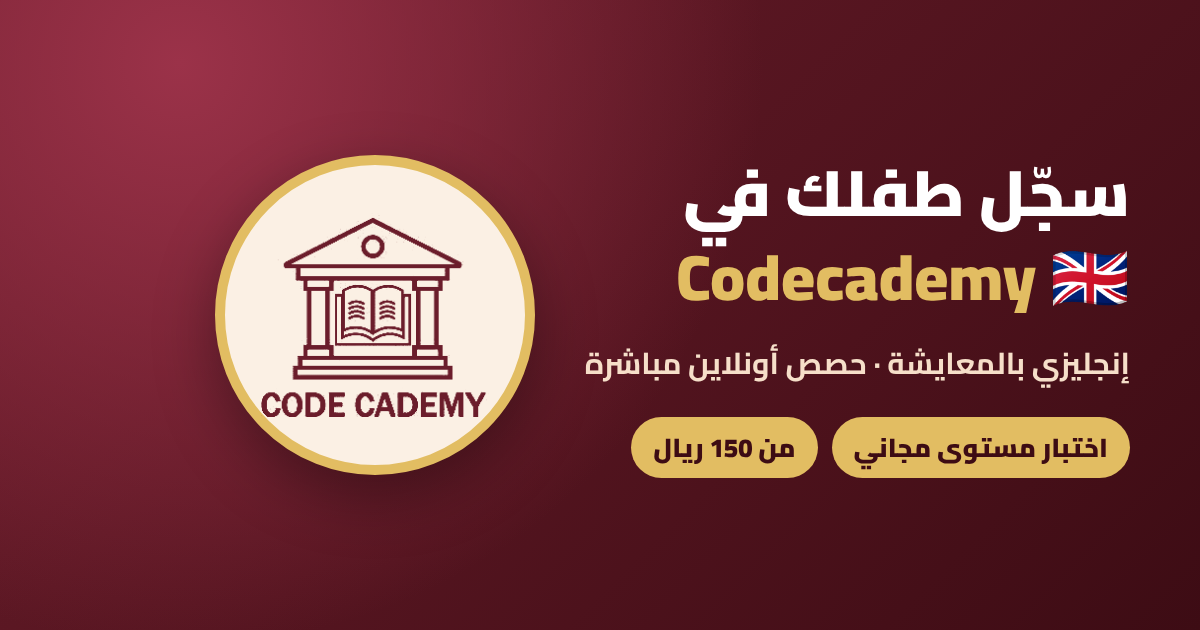
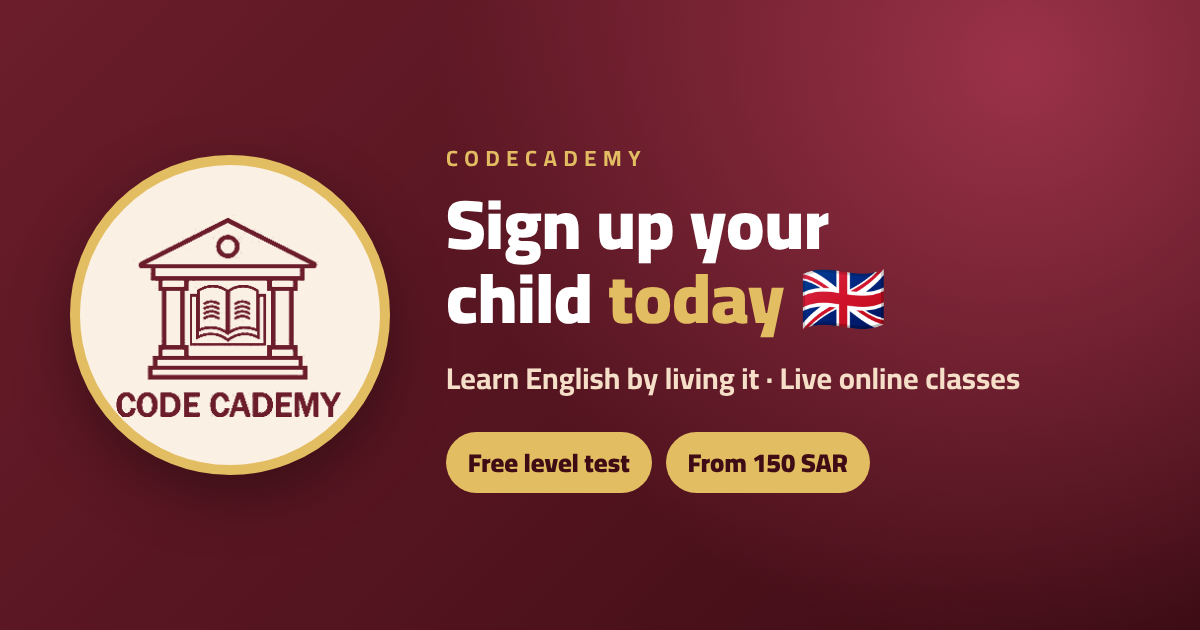
Sign-up page: English sign-up form with blank fields sent on WhatsApp
Claude-Session: https://claude.ai/code/session_017L3fB1cBEQQbZCs43fQFX8

diff --git a/books/join/index.html b/books/join/index.html
@@ -1,70 +1,76 @@
 <!doctype html>
-<html lang="ar" dir="rtl">
+<html lang="en">
 <head>
 <meta charset="utf-8">
 <meta name="viewport" content="width=device-width,initial-scale=1,viewport-fit=cover">
-<title>CODECADEMY · سجّل طفلك</title>
-<meta name="description" content="أجب عن 5 أسئلة سريعة وسيتواصل معك فريق Codecademy لاختيار المستوى والباقة المناسبة لطفلك. اختبار تحديد المستوى مجاني.">
+<title>Sign up · CODECADEMY</title>
+<meta name="description" content="Sign up your child for live online English classes at Codecademy. Free level test. Free interactive apps for every student.">
 <meta property="og:type" content="website">
 <meta property="og:url" content="https://ccdemy.com/books/join/">
-<meta property="og:title" content="ضغطة واحدة تفصل طفلك عن الإنجليزي بثقة 🇬🇧">
-<meta property="og:description" content="أكاديمية Codecademy للأطفال · حصص أونلاين مباشرة · اختبار مستوى مجاني · تطبيقات تفاعلية مجانية">
+<meta property="og:title" content="Sign up your child · Codecademy English 🇬🇧">
+<meta property="og:description" content="Live online English classes for kids · Free level test · Free interactive apps">
 <meta property="og:image" content="https://ccdemy.com/books/join/share.png">
 <meta name="twitter:card" content="summary_large_image">
 <meta name="theme-color" content="#6b1d2b">
 <link rel="icon" href="/assets/img/favicon-32.png">
 <style>
-@font-face{font-family:Cairo;font-weight:600;src:url(../assets/fonts/cairo-arabic-600-normal.woff2)}
-@font-face{font-family:Cairo;font-weight:700;src:url(../assets/fonts/cairo-arabic-700-normal.woff2)}
-@font-face{font-family:Cairo;font-weight:900;src:url(../assets/fonts/cairo-arabic-900-normal.woff2)}@font-face{font-family:Cairo;font-weight:600;src:url(../assets/fonts/cairo-latin-600-normal.woff2);unicode-range:U+0000-024F}@font-face{font-family:Cairo;font-weight:700;src:url(../assets/fonts/cairo-latin-700-normal.woff2);unicode-range:U+0000-024F}@font-face{font-family:Cairo;font-weight:900;src:url(../assets/fonts/cairo-latin-900-normal.woff2);unicode-range:U+0000-024F}
-:root{--m:#6b1d2b;--d:#3d0c14;--g:#e2bd62;--c:#fbf0e4;--ink:#2a1015;--line:#ecd3c3;--ok:#25d366}
+@font-face{font-family:Cairo;font-weight:600;src:url(../assets/fonts/cairo-latin-600-normal.woff2)}
+@font-face{font-family:Cairo;font-weight:700;src:url(../assets/fonts/cairo-latin-700-normal.woff2)}
+@font-face{font-family:Cairo;font-weight:900;src:url(../assets/fonts/cairo-latin-900-normal.woff2)}
+:root{--m:#6b1d2b;--d:#3d0c14;--g:#e2bd62;--ink:#2a1015;--line:#ecd3c3;--ok:#25d366;--muted:#7a6a6e}
 *{box-sizing:border-box;-webkit-tap-highlight-color:transparent}
-html,body{margin:0;background:#f4ece4;color:var(--ink);font-family:Cairo,"Segoe UI",Tahoma,sans-serif}
-.app{max-width:520px;margin:0 auto;min-height:100vh;min-height:100dvh;display:flex;flex-direction:column;background:linear-gradient(#f9f1e9,#f1e6dc)}
-.banner{background:radial-gradient(circle at 80% 0,#9b3249,transparent 55%),linear-gradient(135deg,#6b1d2b,#3d0c14);color:#fff;padding:20px 18px 100px;text-align:center;position:relative;overflow:hidden}
+html,body{margin:0;background:#f4ece4;color:var(--ink);font-family:Cairo,"Segoe UI",system-ui,sans-serif}
+.app{max-width:520px;margin:0 auto;min-height:100vh;min-height:100dvh;background:linear-gradient(#f9f1e9,#f1e6dc)}
+.banner{background:radial-gradient(circle at 85% 0,#9b3249,transparent 55%),linear-gradient(135deg,#6b1d2b,#3d0c14);color:#fff;padding:20px 18px 100px;text-align:center;position:relative;overflow:hidden}
 .banner::after{content:"";position:absolute;inset:auto -10% -40px;height:80px;background:#f9f1e9;border-radius:50% 50% 0 0}
-.banner small{font-weight:700;letter-spacing:.25em;color:var(--g);font-size:11px;direction:ltr;display:block}
-.banner h1{margin:4px 0 2px;font-size:20px;font-weight:900;line-height:1.4}
-.banner p{margin:0;font-size:13px;color:#f6dfc9}
-.badges{display:flex;justify-content:center;gap:8px;margin-top:10px;flex-wrap:wrap}
-.badges span{background:#ffffff1f;border:1px solid #ffffff33;border-radius:99px;padding:3px 10px;font-size:12px;font-weight:700}
-main{flex:1;padding:0 16px 120px;margin-top:-40px;position:relative;z-index:1}
-.card{background:#fff;border-radius:20px;box-shadow:0 6px 24px rgba(61,12,20,.08);padding:18px;margin-bottom:14px}
-.intro{text-align:center;padding-top:52px;position:relative}
-.logo{position:absolute;top:-44px;left:50%;transform:translateX(-50%);width:92px;height:92px;border-radius:50%;background:#fbf0e4;border:4px solid #fff;box-shadow:0 6px 18px rgba(61,12,20,.18);display:flex;align-items:center;justify-content:center;overflow:hidden}
+.banner small{font-weight:700;letter-spacing:.25em;color:var(--g);font-size:11px;display:block}
+.banner h1{margin:6px 0 2px;font-size:24px;font-weight:900;line-height:1.25}
+.banner p{margin:0;font-size:14px;color:#f6dfc9}
+.badges{display:flex;justify-content:center;gap:8px;margin-top:12px;flex-wrap:wrap}
+.badges span{background:#ffffff1f;border:1px solid #ffffff33;border-radius:99px;padding:3px 11px;font-size:12.5px;font-weight:700}
+main{padding:0 16px 130px;margin-top:-40px;position:relative;z-index:1}
+.card{background:#fff;border-radius:20px;box-shadow:0 6px 24px rgba(61,12,20,.08);padding:20px 18px;margin-bottom:14px}
+.intro{text-align:center;padding-top:54px;position:relative}
+.logo{position:absolute;top:-46px;left:50%;transform:translateX(-50%);width:94px;height:94px;border-radius:50%;background:#fbf0e4;border:4px solid #fff;box-shadow:0 6px 18px rgba(61,12,20,.18);display:flex;align-items:center;justify-content:center;overflow:hidden}
 .logo img{width:78%}
-.intro .org{color:#7a6a6e;font-size:14px;margin:0}
-.intro h2{margin:6px 0;font-size:23px;font-weight:900;line-height:1.45}
-.intro p{margin:6px 0 0;font-size:15px;line-height:1.8}
+.intro .org{color:var(--muted);font-size:14px;margin:0}
+.intro h2{margin:6px 0;font-size:24px;font-weight:900;line-height:1.3}
+.intro p{margin:6px 0 0;font-size:15.5px;line-height:1.7}
 .intro b{color:var(--m)}
-.q h3{margin:0 0 10px;font-size:19px;font-weight:900}
-.q .sub{margin:-6px 0 10px;color:#7a6a6e;font-size:13px}
-.opt{display:flex;align-items:center;justify-content:space-between;gap:10px;width:100%;background:none;border:0;border-bottom:1px solid #f0e4da;padding:14px 2px;font:inherit;font-size:16px;font-weight:700;color:var(--ink);cursor:pointer;text-align:right}
-.opt:last-child{border-bottom:0}
-.opt .r{flex:none;width:26px;height:26px;border-radius:50%;border:2.5px solid #9a8a8e;display:grid;place-items:center}
-.opt.on .r{border-color:var(--m);background:var(--m);box-shadow:inset 0 0 0 4px #fff}
-.opt .em{font-size:20px;margin-left:8px}
-.field{display:flex;flex-direction:column;gap:6px;margin-bottom:14px}
+.form h3{margin:0 0 4px;font-size:20px;font-weight:900;display:flex;align-items:center;gap:8px}
+.form h3 span{background:var(--m);color:#fff;width:28px;height:28px;border-radius:50%;display:inline-grid;place-items:center;font-size:15px}
+.form .sub{margin:0 0 14px;color:var(--muted);font-size:13.5px}
+.field{display:flex;flex-direction:column;gap:6px;margin-bottom:14px;min-width:0}
 .field label{font-weight:700;font-size:15px}
-.field input,.field select{font:inherit;font-size:16px;border:2px solid var(--line);border-radius:14px;padding:12px 14px;background:#fffdfb;color:var(--ink);width:100%}
-.field input:focus,.field select:focus{outline:none;border-color:var(--m)}
-.phone{display:flex;gap:8px;direction:ltr}.phone select{width:118px;flex:none}.phone input{flex:1;direction:ltr;text-align:left}
-.err{color:#c0392b;font-size:13px;min-height:18px;margin:-6px 0 6px}
+.field label i{font-style:normal;color:#c0392b}
+.field label small{font-weight:600;color:var(--muted)}
+.field input,.field select,.field textarea{font:inherit;font-size:16px;border:2px solid var(--line);border-radius:14px;padding:12px 14px;background:#fffdfb;color:var(--ink);width:100%;min-width:0;transition:border-color .2s,box-shadow .2s}
+.field select:invalid{color:#a3959a}
+.field input:focus,.field select:focus,.field textarea:focus{outline:none;border-color:var(--m);box-shadow:0 0 0 4px #6b1d2b1a}
+.field.bad input,.field.bad select,.field.bad .chips{border-color:#c0392b}
+.field .msg{color:#c0392b;font-size:13px;display:none}.field.bad .msg{display:block}
+.field.good input,.field.good select{border-color:#3fae5a}
+.row2{display:grid;grid-template-columns:1fr 1fr;gap:10px}
+.phone{display:flex;gap:8px}.phone select{width:118px;flex:none}.phone input{flex:1}
+.chips{display:flex;flex-wrap:wrap;gap:8px}
+.chip{border:2px solid var(--line);background:#fffdfb;border-radius:99px;padding:8px 14px;font:inherit;font-size:14.5px;font-weight:700;color:var(--ink);cursor:pointer}
+.chip.on{background:var(--m);border-color:var(--m);color:#fff}
 .bottom{position:fixed;left:0;right:0;bottom:0;z-index:20;background:#fffcf9ee;backdrop-filter:blur(8px);border-top:1px solid #efe2d8;padding:10px 16px calc(12px + env(safe-area-inset-bottom,0px))}
-.bottom .in{max-width:488px;margin:0 auto}
-.steps{display:flex;gap:6px;margin-bottom:10px;direction:rtl}.steps i{flex:1;height:6px;border-radius:99px;background:#ddd2ca;transition:background .3s}.steps i.on{background:var(--m)}
-.cta{width:100%;border:0;border-radius:14px;padding:14px;font:inherit;font-size:18px;font-weight:900;color:#fff;background:var(--m);cursor:pointer;display:flex;align-items:center;justify-content:center;gap:8px}
-.cta[disabled]{background:#c9b8b0;cursor:default}
+.bottom .in{max-width:488px;margin:0 auto;display:flex;flex-direction:column;gap:10px}
+.prog{display:flex;align-items:center;gap:10px;font-size:13px;font-weight:700;color:var(--muted)}
+.prog .bar{flex:1;height:8px;border-radius:99px;background:#e6dbd3;overflow:hidden}.prog .bar i{display:block;height:100%;width:0;background:linear-gradient(90deg,var(--m),#a8344c);transition:width .35s}
+.btns{display:flex;gap:10px}
+.cta{flex:1;border:0;border-radius:14px;padding:14px;font:inherit;font-size:17px;font-weight:900;color:#fff;background:var(--m);cursor:pointer;display:flex;align-items:center;justify-content:center;gap:8px}
+.cta.ghost{flex:none;background:#fff;color:var(--m);border:2px solid var(--line);padding:14px 18px}
 .cta.wa{background:var(--ok)}
-.back{background:none;border:0;color:var(--m);font:inherit;font-weight:700;margin:0 0 8px;cursor:pointer;padding:0;font-size:14px}
-.done{text-align:center}
-.done .big{font-size:56px;line-height:1}
-.done h2{margin:6px 0;font-size:22px;font-weight:900;color:var(--m)}
-.done p{margin:6px 0;line-height:1.8}
-.links{display:flex;flex-direction:column;gap:10px;margin-top:14px}
+.cta[hidden]{display:none}
+.done{text-align:center}.done .big{font-size:58px;line-height:1}.done h2{margin:6px 0;font-size:24px;font-weight:900;color:var(--m)}.done p{margin:6px 0;line-height:1.7}
+.sum{background:#fbf5ef;border-radius:14px;padding:12px 14px;text-align:left;font-size:14.5px;line-height:1.8;margin:12px 0}
+.sum b{color:var(--m)}
+.links{display:flex;flex-direction:column;gap:10px;margin-top:12px}
 .links a{display:flex;align-items:center;justify-content:center;gap:8px;border-radius:14px;padding:13px;font-weight:900;text-decoration:none;font-size:16px}
 .links .l1{background:var(--ok);color:#fff}.links .l2{background:var(--m);color:#fff}.links .l3{background:#fff;color:var(--m);border:2px solid var(--m)}
-.foot{text-align:center;color:#9a8a8e;font-size:12px;margin-top:6px}.foot a{color:var(--m)}
+.foot{text-align:center;color:#9a8a8e;font-size:12.5px;margin-top:6px}.foot a{color:var(--m)}
 .fade{animation:fade .3s ease}@keyframes fade{from{opacity:0;transform:translateY(8px)}}
 @media (prefers-reduced-motion:reduce){*{animation:none!important;transition:none!important}}
 </style>
@@ -73,58 +79,84 @@ main{flex:1;padding:0 16px 120px;margin-top:-40px;position:relative;z-index:1}
 <div class="app">
   <header class="banner">
     <small>CODECADEMY · LEARN BY LIVING IT ♥</small>
-    <h1>إنجليزي بالمعايشة لطفلك من البيت</h1>
-    <p>حصص أونلاين مباشرة مع مدرّسين متحدثين بالإنجليزية</p>
-    <div class="badges"><span>✔ اختبار مستوى مجاني</span><span>✔ تطبيقات تفاعلية مجانًا</span><span>✔ 9 مستويات</span></div>
+    <h1>Learn English by living it, from home</h1>
+    <p>Live online classes for kids with English-speaking teachers</p>
+    <div class="badges"><span>✔ Free level test</span><span>✔ Free interactive apps</span><span>✔ 9 levels</span></div>
   </header>
-  <main id="main"></main>
+  <main>
+    <section class="card intro">
+      <div class="logo"><img src="../assets/logo.png" alt="CODECADEMY"></div>
+      <p class="org">CODECADEMY · English Academy for Kids</p>
+      <h2>Sign up your child in 2 minutes 🇬🇧</h2>
+      <p>A fun, interactive way to speak English with confidence.<br>Packages start from <b>150 SAR a month</b>.<br>Fill in the form and we'll contact you on WhatsApp.</p>
+    </section>
+    <form class="card form fade" id="form" novalidate autocomplete="on"></form>
+    <p class="foot"><a href="https://ccdemy.com/" target="_blank" rel="noopener">ccdemy.com</a> · <a href="https://wa.me/message/SMLAW2VMJXCQE1" target="_blank" rel="noopener">Chat with us on WhatsApp</a></p>
+  </main>
 </div>
-<div class="bottom"><div class="in"><div class="steps" id="steps"></div><button class="cta" id="next" disabled>متابعة</button></div></div>
+<div class="bottom" id="bottom"><div class="in">
+  <div class="prog"><span id="pt">Step 1 of 3</span><div class="bar"><i id="pb"></i></div></div>
+  <div class="btns"><button class="cta ghost" id="back" type="button" hidden>← Back</button><button class="cta" id="next" type="button">Next →</button></div>
+</div></div>
 
 <script>
-var WA="966538840330",WA_LINK="https://wa.me/message/SMLAW2VMJXCQE1",SITE="https://ccdemy.com/";
-var Q=[
- {k:"age",t:"عمر الطفل",o:[["👶","من 4 إلى 6 سنوات"],["🧒","من 7 إلى 9 سنوات"],["👦","من 10 إلى 12 سنة"],["🧑","من 13 إلى 15 سنة"]]},
- {k:"goal",t:"ما هدفك من تعلّم طفلك الإنجليزي؟",o:[["🗣","التحدث بطلاقة وثقة"],["🔤","التأسيس: الحروف والصوتيات"],["📖","القراءة والكتابة"],["🏫","تحسين مستواه في المدرسة"],["✈","الاستعداد للسفر أو الاختبارات"]]},
- {k:"level",t:"مستوى الطفل الحالي في الإنجليزي",s:"لا تقلق، نحدد المستوى بدقة باختبار مجاني",o:[["🌱","مبتدئ تمامًا"],["🙂","يعرف الأساسيات"],["⭐","متوسط"],["🚀","متقدم"],["❓","لا أعرف"]]},
- {k:"plan",t:"الباقة المناسبة لك",o:[["📅","حصتان أسبوعيًا (8 حصص شهريًا)"],["🗓","3 حصص أسبوعيًا (12 حصة شهريًا)"],["💬","أحتاج استشارة لاختيار الباقة"]]},
- {k:"time",t:"الوقت المناسب للحصص",o:[["🌅","صباحًا"],["☀","بعد الظهر"],["🌆","مساءً"],["🔁","مرن"]]},
- {k:"info",form:1}
+var WA="966538840330",SITE="https://ccdemy.com/";
+var STEPS=[
+ {t:"Your child",s:"Tell us about the student.",f:[
+  {k:"child",l:"Child's name",type:"text",ph:"e.g. Adam",req:1,ac:"off"},
+  {k:"age",l:"Child's age",type:"number",ph:"e.g. 8",req:1,min:3,max:17,half:1},
+  {k:"grade",l:"School grade",type:"text",ph:"e.g. Grade 3",half:1},
+  {k:"level",l:"English level now",type:"select",req:1,o:["Complete beginner","Knows the basics","Intermediate","Advanced","I'm not sure (free level test)"]}]},
+ {t:"Goals & timing",s:"Choose what matters most to you.",f:[
+  {k:"goal",l:"Main goal",type:"chips",req:1,o:["Speak fluently","Phonics & reading","Writing","School English","Travel or exams"]},
+  {k:"plan",l:"Package",type:"select",req:1,o:["2 classes a week · 8 a month (150 SAR)","3 classes a week · 12 a month (250 SAR)","I need advice"]},
+  {k:"days",l:"Preferred days",type:"chips",o:["Sun","Mon","Tue","Wed","Thu","Fri","Sat"]},
+  {k:"time",l:"Preferred time",type:"select",req:1,o:["Morning","Afternoon","Evening","Flexible"]}]},
+ {t:"Parent's contact",s:"We'll send the details and your free level test on WhatsApp.",f:[
+  {k:"parent",l:"Parent's name",type:"text",ph:"Your name",req:1,ac:"name"},
+  {k:"phone",l:"WhatsApp number",type:"phone",ph:"5X XXX XXXX",req:1},
+  {k:"city",l:"City / country",type:"text",ph:"e.g. Riyadh",ac:"address-level2"},
+  {k:"note",l:"Anything else?",type:"textarea",ph:"Questions or notes"}]}
 ];
-var A={},step=-1;
-try{A=JSON.parse(sessionStorage.getItem("ccjoin")||"{}")}catch(e){}
-var main=document.getElementById("main"),btn=document.getElementById("next"),stepsEl=document.getElementById("steps");
-function save(){try{sessionStorage.setItem("ccjoin",JSON.stringify(A))}catch(e){}}
+var A={},step=0;
+var form=document.getElementById("form"),next=document.getElementById("next"),back=document.getElementById("back");
 function esc(s){return String(s).replace(/[&<>"]/g,function(c){return{"&":"&amp;","<":"&lt;",">":"&gt;",'"':"&quot;"}[c]})}
-function bar(){stepsEl.innerHTML=Q.map(function(_,i){return '<i class="'+(i<=step?"on":"")+'"></i>'}).join("")}
-function intro(){return '<section class="card intro fade"><div class="logo"><img src="../assets/logo.png" alt="CODECADEMY"></div><p class="org">CODECADEMY · أكاديمية الإنجليزي للأطفال</p><h2>ضغطة واحدة تفصل طفلك<br>عن الإنجليزي بثقة 🇬🇧</h2><p>منهج تفاعلي ممتع يتعلم فيه طفلك بالمعايشة<br>باقات تبدأ من <b>150 ريال شهريًا</b><br>أجب عن أسئلة بسيطة، وسيتواصل معك فريق Codecademy على الواتساب</p></section>'}
-function render(){bar();var h=intro();
- if(step>=0&&step<Q.length){var q=Q[step];
-  h=(step>0?'':h)+'<section class="card q fade">'+(step>0?'<button class="back" id="back">→ رجوع</button>':'');
-  if(q.form){h+='<h3>بيانات التواصل</h3><p class="sub">سنرسل لك تفاصيل الباقات وموعد الاختبار المجاني</p>'+
-   '<div class="field"><label for="pn">اسم ولي الأمر</label><input id="pn" autocomplete="name" value="'+esc(A.pn||"")+'" placeholder="مثال: أم أحمد"></div>'+
-   '<div class="field"><label for="cn">اسم الطفل</label><input id="cn" value="'+esc(A.cn||"")+'" placeholder="مثال: أحمد"></div>'+
-   '<div class="field"><label for="ph">رقم الواتساب</label><div class="phone"><select id="cc" aria-label="مفتاح الدولة">'+[["+966","🇸🇦 +966"],["+20","🇪🇬 +20"],["+971","🇦🇪 +971"],["+965","🇰🇼 +965"],["+974","🇶🇦 +974"],["+973","🇧🇭 +973"],["+968","🇴🇲 +968"],["+962","🇯🇴 +962"],["","أخرى"]].map(function(c){return '<option value="'+c[0]+'"'+((A.cc||"+966")==c[0]?" selected":"")+'>'+c[1]+'</option>'}).join("")+'</select><input id="ph" type="tel" inputmode="tel" autocomplete="tel-national" value="'+esc(A.ph||"")+'" placeholder="5XXXXXXXX"></div></div><p class="err" id="err"></p>'}
-  else{h+='<h3>'+q.t+'</h3>'+(q.s?'<p class="sub">'+q.s+'</p>':'')+q.o.map(function(o,i){return '<button class="opt'+(A[q.k]==o[1]?" on":"")+'" data-v="'+esc(o[1])+'"><span><span class="em">'+o[0]+'</span>'+o[1]+'</span><span class="r"></span></button>'}).join("")}
-  h+='</section>'}
- else if(step<0){h+='<section class="card q fade"><h3>'+Q[0].t+'</h3>'+Q[0].o.map(function(o){return '<button class="opt'+(A.age==o[1]?" on":"")+'" data-v="'+esc(o[1])+'"><span><span class="em">'+o[0]+'</span>'+o[1]+'</span><span class="r"></span></button>'}).join("")+'</section>';}
- if(step===Q.length){h='<section class="card done fade"><div class="big">🎉</div><h2>شكرًا لك'+(A.pn?"، "+esc(A.pn):"")+'!</h2><p>تم تجهيز رسالتك. اضغط على الزر لإرسالها لنا على الواتساب، وسنرد عليك في أقرب وقت.</p><div class="links"><a class="l1" id="sendAgain" href="'+waURL()+'" target="_blank" rel="noopener">إرسال على الواتساب 💬</a><a class="l2" href="'+SITE+'english.html#level-test" target="_blank" rel="noopener">ابدأ اختبار المستوى المجاني 📝</a><a class="l3" href="'+SITE+'" target="_blank" rel="noopener">زيارة موقع Codecademy 🌐</a></div></section>';btn.parentNode.parentNode.style.display="none"}
- else btn.parentNode.parentNode.style.display="";
- h+='<p class="foot"><a href="'+SITE+'" target="_blank" rel="noopener">ccdemy.com</a> · <a href="'+WA_LINK+'" target="_blank" rel="noopener">تواصل معنا على الواتساب</a></p>';
- main.innerHTML=h;window.scrollTo({top:0,behavior:"smooth"});
- var cur=step<0?Q[0]:Q[step];
- [].forEach.call(main.querySelectorAll(".opt"),function(b){b.onclick=function(){A[cur.k]=b.getAttribute("data-v");save();[].forEach.call(main.querySelectorAll(".opt"),function(x){x.classList.toggle("on",x===b)});btn.disabled=false;if(step<0)step=0;setTimeout(function(){go(1)},260)}});
- var bk=document.getElementById("back");if(bk)bk.onclick=function(){go(-1)};
- if(cur&&cur.form){btn.textContent="إرسال على الواتساب 💬";btn.classList.add("wa");var chk=function(){A.pn=val("pn");A.cn=val("cn");A.ph=val("ph").replace(/[^0-9]/g,"");A.cc=document.getElementById("cc").value;save();btn.disabled=!(A.pn&&A.ph.length>=7)};["pn","cn","ph","cc"].forEach(function(id){document.getElementById(id).oninput=chk;document.getElementById(id).onchange=chk});chk()}
- else{btn.textContent="متابعة";btn.classList.remove("wa");btn.disabled=!(cur&&A[cur.k])}
+function fieldHTML(f){var lab='<label for="f_'+f.k+'">'+f.l+(f.req?' <i>*</i>':' <small>(optional)</small>')+'</label>',h='';
+ if(f.type=="select")h='<select id="f_'+f.k+'" required><option value="" disabled'+(A[f.k]?'':' selected')+'>Choose…</option>'+f.o.map(function(o){return '<option'+(A[f.k]==o?' selected':'')+'>'+esc(o)+'</option>'}).join("")+'</select>';
+ else if(f.type=="chips")h='<div class="chips" id="f_'+f.k+'">'+f.o.map(function(o){return '<button type="button" class="chip'+((A[f.k]||[]).indexOf(o)>=0?' on':'')+'" data-v="'+esc(o)+'">'+esc(o)+'</button>'}).join("")+'</div>';
+ else if(f.type=="phone")h='<div class="phone"><select id="f_cc" aria-label="Country code">'+[["+966","🇸🇦 +966"],["+20","🇪🇬 +20"],["+971","🇦🇪 +971"],["+965","🇰🇼 +965"],["+974","🇶🇦 +974"],["+973","🇧🇭 +973"],["+968","🇴🇲 +968"],["+962","🇯🇴 +962"],["+44","🇬🇧 +44"],["+1","🇺🇸 +1"]].map(function(c){return '<option value="'+c[0]+'"'+((A.cc||"+966")==c[0]?' selected':'')+'>'+c[1]+'</option>'}).join("")+'</select><input id="f_phone" type="tel" inputmode="tel" autocomplete="tel-national" placeholder="'+f.ph+'" value="'+esc(A.phone||"")+'"></div>';
+ else if(f.type=="textarea")h='<textarea id="f_'+f.k+'" rows="3" placeholder="'+f.ph+'">'+esc(A[f.k]||"")+'</textarea>';
+ else h='<input id="f_'+f.k+'" type="'+f.type+'" placeholder="'+f.ph+'" value="'+esc(A[f.k]||"")+'"'+(f.min?' min="'+f.min+'" max="'+f.max+'" inputmode="numeric"':'')+(f.ac?' autocomplete="'+f.ac+'"':'')+'>';
+ var m=f.type=="phone"?"Please enter a valid WhatsApp number.":f.type=="chips"?"Please choose at least one.":f.type=="number"?"Please enter the age ("+f.min+" to "+f.max+").":"Please fill in this field.";
+ return '<div class="field" data-k="'+f.k+'">'+lab+h+'<span class="msg">'+m+'</span></div>'}
+function render(){var S=STEPS[step],fs=S.f,h='<h3><span>'+(step+1)+'</span>'+S.t+'</h3><p class="sub">'+S.s+'</p>',i=0;
+ while(i<fs.length){if(fs[i].half&&fs[i+1]&&fs[i+1].half){h+='<div class="row2">'+fieldHTML(fs[i])+fieldHTML(fs[i+1])+'</div>';i+=2}else{h+=fieldHTML(fs[i]);i++}}
+ form.innerHTML=h;form.classList.remove("fade");void form.offsetWidth;form.classList.add("fade");
+ document.getElementById("pt").textContent="Step "+(step+1)+" of "+STEPS.length;document.getElementById("pb").style.width=((step+1)/STEPS.length*100)+"%";
+ back.hidden=step==0;next.textContent=step==STEPS.length-1?"Send on WhatsApp 💬":"Next →";next.classList.toggle("wa",step==STEPS.length-1);
+ fs.forEach(function(f){var el=document.getElementById("f_"+f.k);
+  if(f.type=="chips"){[].forEach.call(el.querySelectorAll(".chip"),function(c){c.onclick=function(){var v=c.getAttribute("data-v"),a=A[f.k]||[],j=a.indexOf(v);if(j>=0)a.splice(j,1);else a.push(v);A[f.k]=a;c.classList.toggle("on",a.indexOf(v)>=0);check(f,true)}})}
+  else{el.oninput=el.onchange=function(){A[f.k]=el.value.trim();check(f,false)};el.onblur=function(){check(f,true)}}});
+ var cc=document.getElementById("f_cc");if(cc)cc.onchange=function(){A.cc=cc.value};
 }
-function val(id){return document.getElementById(id).value.trim()}
-function waURL(){var t="السلام عليكم 👋\nأرغب في تسجيل طفلي في أكاديمية Codecademy\n\n"+
- "👤 ولي الأمر: "+(A.pn||"")+"\n🧒 اسم الطفل: "+(A.cn||"—")+"\n🎂 العمر: "+(A.age||"")+"\n🎯 الهدف: "+(A.goal||"")+"\n📊 المستوى: "+(A.level||"")+"\n📦 الباقة: "+(A.plan||"")+"\n⏰ الوقت المناسب: "+(A.time||"")+"\n📱 الواتساب: "+(A.cc||"")+" "+(A.ph||"");
- return "https://wa.me/"+WA+"?text="+encodeURIComponent(t)}
-function go(d){var cur=step<0?Q[0]:Q[step];if(d>0&&cur&&cur.form){var e=document.getElementById("err");if(!A.pn){e.textContent="من فضلك اكتب الاسم";return}if(!A.ph||A.ph.length<7){e.textContent="من فضلك اكتب رقم واتساب صحيح";return}window.open(waURL(),"_blank");step=Q.length;render();return}
- step=Math.max(0,Math.min(Q.length,step+d));render()}
-btn.onclick=function(){if(step<0)step=0;go(1)};
+function ok(f){var v=A[f.k];if(f.type=="chips")return !f.req||!!(v&&v.length);if(!f.req&&!v)return true;if(!v)return false;
+ if(f.type=="number"){var n=+v;return n>=f.min&&n<=f.max}if(f.type=="phone")return v.replace(/[^0-9]/g,"").length>=7;return true}
+function check(f,show){var box=form.querySelector('.field[data-k="'+f.k+'"]');if(!box)return;var g=ok(f),filled=Array.isArray(A[f.k])?A[f.k].length>0:!!A[f.k];box.classList.toggle("bad",show&&!g);box.classList.toggle("good",g&&filled)}
+function valid(){var all=true,firstBad=null;STEPS[step].f.forEach(function(f){var g=ok(f);check(f,true);if(!g){all=false;firstBad=firstBad||form.querySelector('.field[data-k="'+f.k+'"]')}});if(firstBad)firstBad.scrollIntoView({behavior:"smooth",block:"center"});return all}
+function L(k){var v=A[k];return Array.isArray(v)?(v.join(", ")||"—"):(v||"—")}
+function message(){return "Hello Codecademy 👋\nI'd like to sign up my child.\n\n"+
+ "🧒 Child: "+L("child")+"\n🎂 Age: "+L("age")+(A.grade?"\n🏫 Grade: "+A.grade:"")+"\n📊 Level: "+L("level")+
+ "\n🎯 Goal: "+L("goal")+"\n📦 Package: "+L("plan")+"\n📅 Days: "+L("days")+"\n⏰ Time: "+L("time")+
+ "\n\n👤 Parent: "+L("parent")+"\n📱 WhatsApp: "+(A.cc||"+966")+" "+(A.phone||"")+(A.city?"\n📍 City: "+A.city:"")+(A.note?"\n📝 Note: "+A.note:"")}
+function waURL(){return "https://wa.me/"+WA+"?text="+encodeURIComponent(message())}
+function done(){document.getElementById("bottom").style.display="none";
+ var d=document.createElement("section");d.className="card done fade";
+ d.innerHTML='<div class="big">🎉</div><h2>Thank you, '+esc(A.parent||"")+'!</h2><p>Your sign-up is ready. If WhatsApp didn\'t open, tap the green button to send it, and our team will reply soon.</p>'+
+ '<div class="sum"><b>Child:</b> '+esc(A.child||"")+', '+esc(A.age||"")+' years<br><b>Level:</b> '+esc(A.level||"")+'<br><b>Package:</b> '+esc(A.plan||"")+'<br><b>WhatsApp:</b> '+esc((A.cc||"+966")+" "+(A.phone||""))+'</div>'+
+ '<div class="links"><a class="l1" href="'+waURL()+'" target="_blank" rel="noopener">Send on WhatsApp 💬</a><a class="l2" href="'+SITE+'english.html#level-test" target="_blank" rel="noopener">Take the free level test 📝</a><a class="l3" href="'+SITE+'" target="_blank" rel="noopener">Visit our website 🌐</a></div>';
+ form.replaceWith(d);window.scrollTo({top:0,behavior:"smooth"})}
+next.onclick=function(){if(!valid())return;if(step==STEPS.length-1){window.open(waURL(),"_blank");done();return}step++;render();var f=document.getElementById("form");window.scrollTo({top:f.getBoundingClientRect().top+scrollY-20,behavior:"smooth"})};
+back.onclick=function(){if(step>0){step--;render()}};
 render();
 </script>
 </body>
